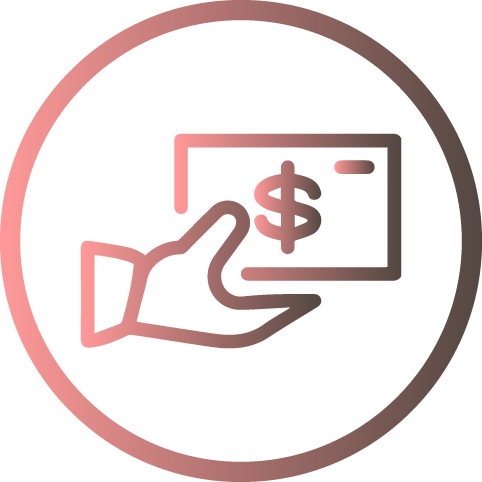
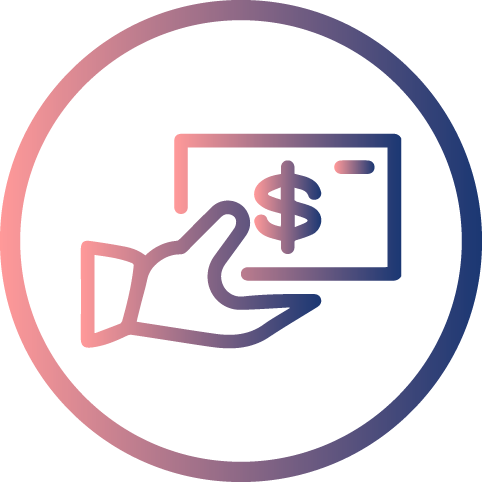
more home page fixes

Changed region(s): [[0.4046, 0.0, 1.0, 1.0], [0.3734, 0.2801, 0.8402, 0.7469]]

diff --git a/src/app/home/how-it-works/how-it-works.component.html b/src/app/home/how-it-works/how-it-works.component.html
@@ -1,22 +1,22 @@
 <div class="container how-it-works">
-  <h2>How It Works</h2>
+  <h3>How It Works</h3>
   <div class="row">
     <div class="col-12">
-      <img class="img-fluid how-it-works-icons" src="https://i.imgur.com/5ZkzIKD.png" alt="">
+      <img class="img-fluid how-it-works-icons" src="/src/app/shared/images/searchIcon.png" alt="">
       <h5>1. Search Your Brand</h5>
-      <p>Search for your specific brand of lenses. We'll find the cheapest price on the market for you and provide you the link for your purchase.
+      <p>Search for your specific brand of lenses. We'll find the cheapest price out there on the market for you and provide you the link for your purchase.
       </p>
     </div>
     <div class="col-12">
-        <img class="img-fluid how-it-works-icons" src="https://i.imgur.com/xRwaVV8.png" alt="">
+        <img class="img-fluid how-it-works-icons" src="https://i.imgur.com/iIOaq9N.png" alt="">
         <h5>2. Purchase Your Lenses</h5>
-        <p>Go through the website to place an order for your contact lenses and purchase them at the cheapest price on the market.
+        <p>Purchase your lenses through the link provided to purchase your lenses at the cheapest price on the market.
         </p>
     </div>
     <div class="col-12">
-        <img class="img-fluid how-it-works-icons" src="https://i.imgur.com/c3rVt17.png" alt="">
+        <img class="img-fluid how-it-works-icons" src="https://i.imgur.com/eENY8dW.png" alt="">
         <h5>3. Save Your Money</h5>
-        <p>Since purchasing lenses at a discounted rate is obviously cheaper, this will help you save your money to essentially make your piggy bank fat! 
+        <p>We help you save your money to essentially make your piggy bank fatter! Spend your saved money on a little something for yourself, you earned it. 
         </p>
     </div>
   </div>

diff --git a/src/styles.scss b/src/styles.scss
@@ -1,5 +1,5 @@
-@import "src/app/css/sass/includes/_bootstrap-overrides.scss";
 @import "src/app/css/sass/includes/_vars.scss";
+@import "src/app/css/sass/includes/_bootstrap-overrides.scss";
 @import "src/app/css/sass/includes/_mixins.scss";
 @import "src/app/css/sass/includes/_buttons.scss";
 @import "src/app/css/sass/includes/_fonts.scss";

diff --git a/src/app/css/sass/includes/_buttons.scss b/src/app/css/sass/includes/_buttons.scss
@@ -7,10 +7,10 @@
 }
 
 .btn-secondary {
-    background-color: white;
+    background-color: $color-pig-darker-blue;;
     border-radius: 5px;
     border: none;
-    color: $color-pig-pink;
+    color: $color-white;
     font-weight: 700;
     padding: 12px;
     text-transform: uppercase;

diff --git a/src/app/css/sass/includes/_vars.scss b/src/app/css/sass/includes/_vars.scss
@@ -7,7 +7,9 @@ $color-pig-gray: #7f7f7f;
 $color-pig-silver: #d9d9d9;
 $color-pig-brown: #534741;
 $color-pig-light-brown: #c7b299;
-$color-pig-navy-blue: #3a4664;
+$color-pig-dark-blue: #1a3773;
+$color-pig-darker-blue: #1e3058;
+
 
 
 

diff --git a/src/app/css/sass/includes/_bootstrap-overrides.scss b/src/app/css/sass/includes/_bootstrap-overrides.scss
@@ -20,6 +20,11 @@ button {
 	padding-right: 24px;
 }
 
+h3 {
+	color: $color-pig-dark-blue;
+	text-align: center;
+}
+
 .label {
 	&:empty { display: inherit; }
 

diff --git a/src/app/home/home.component.html b/src/app/home/home.component.html
@@ -1,4 +1,4 @@
-<div class="homeHero ">
+<div class="homeHero">
   <div class="container">
     <div class="row">
       <div class="col-12">

diff --git a/src/app/home/how-it-works/how-it-works.component.scss b/src/app/home/how-it-works/how-it-works.component.scss
@@ -10,3 +10,7 @@
     display: block;
     margin: 24px auto;
 }
+
+hr {
+    color: black;
+}
